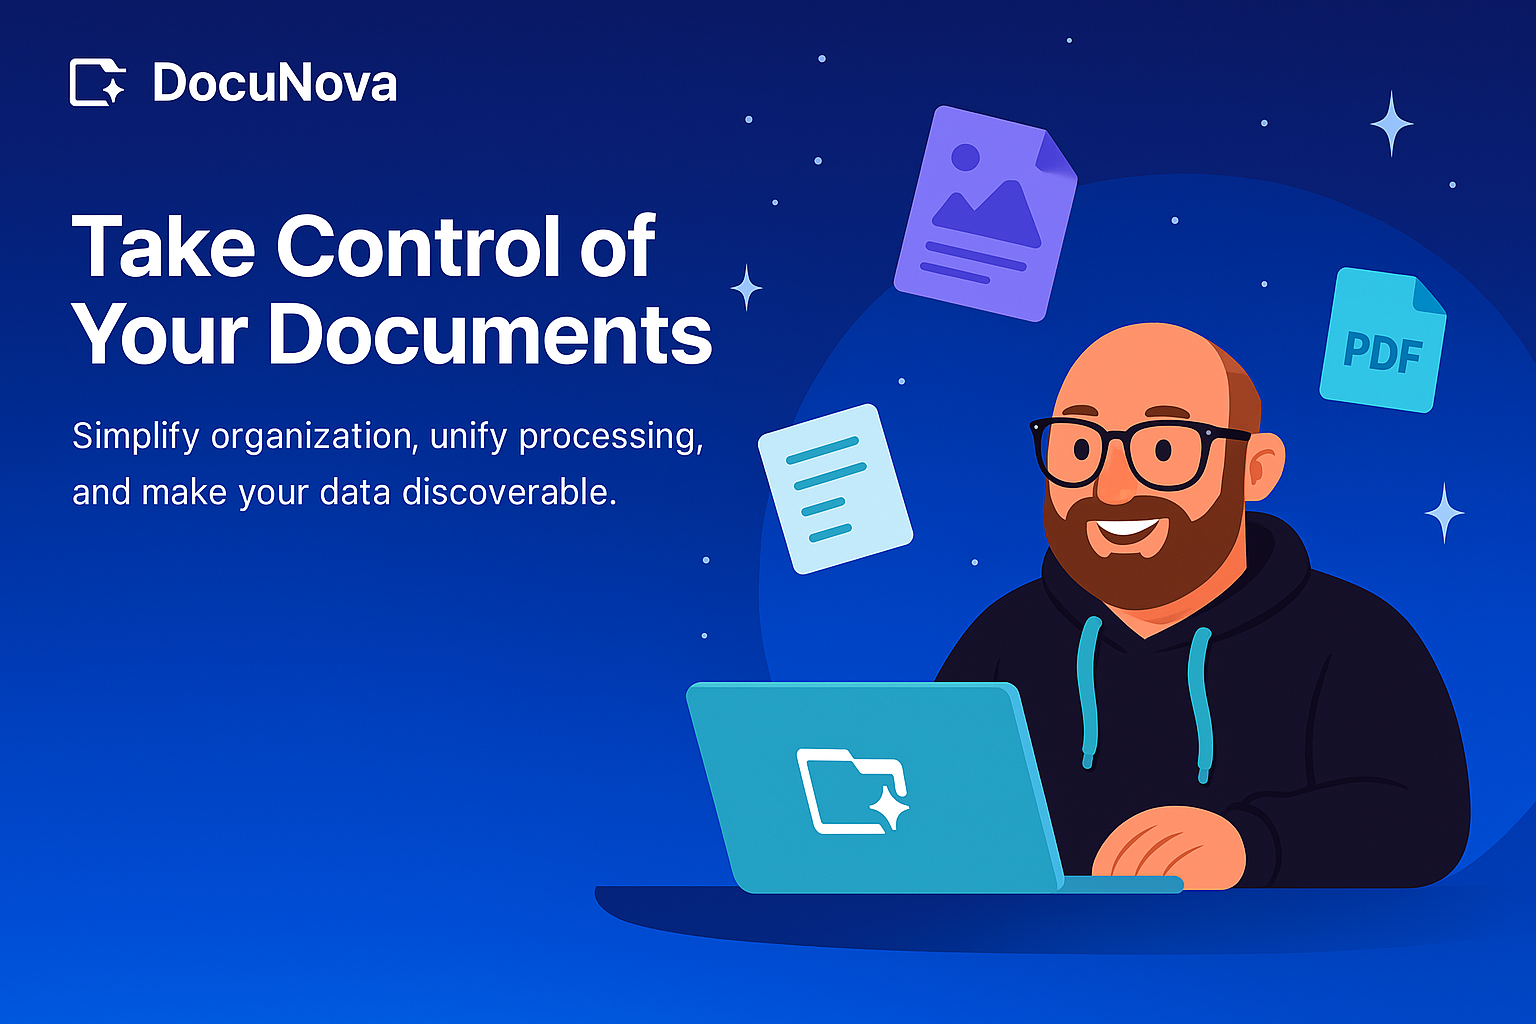
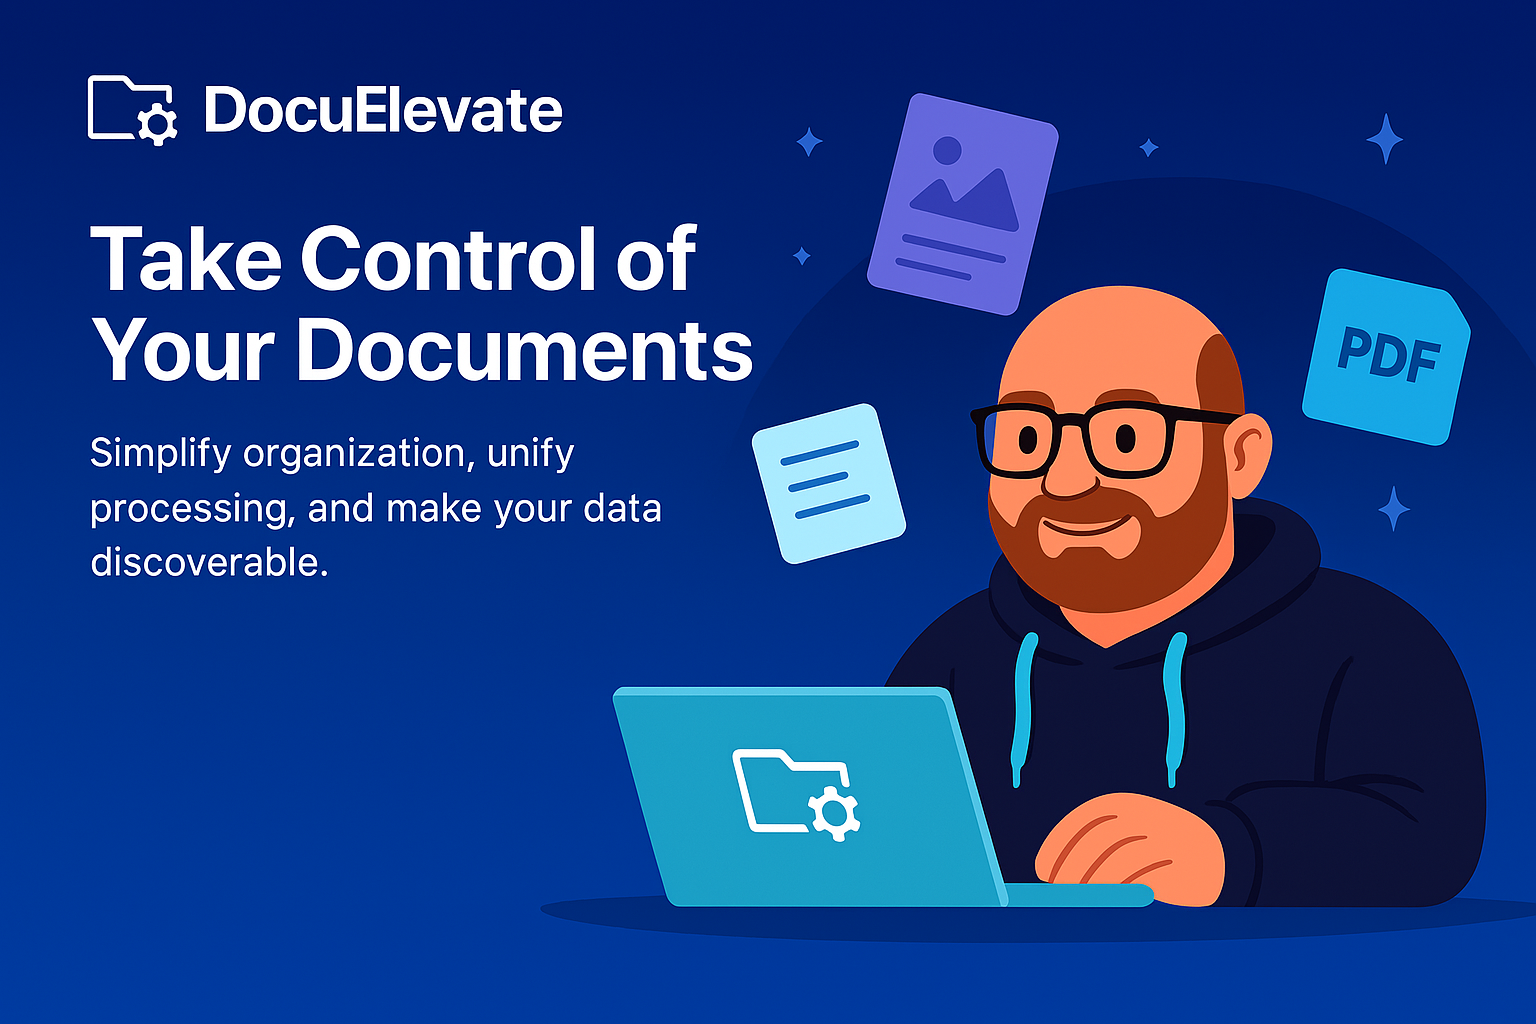
Rename project from DocuNova to DocuElevate and update related assets

diff --git a/index.html b/index.html
@@ -3,7 +3,7 @@
   <head>
     <meta charset="UTF-8" />
     <meta name="viewport" content="width=device-width, initial-scale=1.0" />
-    <title>DocuNova – Intelligent Document Processing</title>
+    <title>DocuElevate – Intelligent Document Processing</title>
     <script src="https://cdn.tailwindcss.com"></script>
     <script defer src="https://cdn.jsdelivr.net/npm/@alpinejs/intersect@3.14.9/dist/cdn.min.js"></script>
     <script defer src="https://cdn.jsdelivr.net/npm/alpinejs@3.14.9/dist/cdn.min.js"></script>
@@ -13,8 +13,8 @@
     <!-- Navigation -->
     <header class="flex items-center justify-between px-6 py-4 shadow">
       <div class="flex items-center space-x-2">
-        <img src="logo.svg" alt="DocuNova Logo" class="w-10 h-10" />
-        <span class="text-2xl font-bold text-blue-700">DocuNova</span>
+        <img src="logo.svg" alt="DocuElevate Logo" class="w-10 h-10" />
+        <span class="text-2xl font-bold text-blue-700">DocuElevate</span>
       </div>
       <nav class="space-x-6">
         <a href="#features" class="text-gray-600 hover:text-purple-700">Features</a>
@@ -22,7 +22,7 @@
         <a href="#story" class="text-gray-600 hover:text-purple-700">Story</a>
         <a href="#who" class="text-gray-600 hover:text-purple-700">Who Is It For?</a>
         <a href="#imprint" class="text-gray-600 hover:text-purple-700" @click.prevent="showImprint = true">Impressum</a>
-        <a href="https://github.com/christianlouis/DocuNova" target="_blank" class="bg-purple-700 text-white px-4 py-2 rounded hover:bg-purple-800">View on GitHub</a>
+        <a href="https://github.com/christianlouis/DocuElevate" target="_blank" class="bg-purple-700 text-white px-4 py-2 rounded hover:bg-purple-800">View on GitHub</a>
       </nav>
     </header>
 
@@ -77,7 +77,7 @@
               class="bg-gray-50 rounded-xl shadow p-6 text-center opacity-0 transform -translate-x-52 transition-all duration-1000 ease-out"
               x-intersect.once="$el.classList.add('opacity-100', 'translate-x-0')"
             >
-              <img src="story4.png" alt="Happy Christian using DocuNova" class="rounded-lg mb-6 w-full max-w-md mx-auto">
+              <img src="story4.png" alt="Happy Christian using DocuElevate" class="rounded-lg mb-6 w-full max-w-md mx-auto">
               <p class="text-base text-gray-700">
                 Then came the breakthrough. With intelligent document processing, files were auto-tagged, renamed, and neatly filed. Christian could finally find anything in seconds—and get back to what really matters.
               </p>
@@ -130,7 +130,7 @@
             <h3 class="text-2xl font-semibold text-blue-700 mb-4">Document Ingestion</h3>
             <p class="text-lg text-gray-700 max-w-3xl mx-auto mb-10">
               Your documents enter the system through a variety of inputs—from scanners to inboxes and drop folders.
-              DocuNova watches them all and picks up everything you throw at it.
+              DocuElevate watches them all and picks up everything you throw at it.
             </p>
             <div class="grid grid-cols-1 sm:grid-cols-2 md:grid-cols-4 gap-8">
               <div class="bg-gray-100 rounded-xl p-4 shadow">
@@ -156,7 +156,7 @@
           <div class="mb-24">
             <h3 class="text-2xl font-semibold text-purple-700 mb-4">Automated Document Processing</h3>
             <p class="text-lg text-gray-700 max-w-3xl mx-auto mb-10">
-              Inside the DocuNova engine, your documents are transformed into structured data: OCR, metadata extraction, clean naming, and full-text indexing happen automatically.
+              Inside the DocuElevate engine, your documents are transformed into structured data: OCR, metadata extraction, clean naming, and full-text indexing happen automatically.
             </p>
             <div class="bg-gray-100 rounded-xl p-6 shadow-lg">
               <img src="workflow/processing.png" alt="Document Processing" class="mx-auto max-w-md sm:max-w-lg md:max-w-xl h-auto rounded-lg mb-6">
@@ -231,11 +231,11 @@
           </div>
           <div class="p-6 bg-white rounded-xl shadow text-center">
             <h3 class="text-xl font-semibold text-purple-700 mb-2">Zero-Paper Enthusiasts</h3>
-            <p>Turn your household into a paperless fortress. DocuNova is your digital vault.</p>
+            <p>Turn your household into a paperless fortress. DocuElevate is your digital vault.</p>
           </div>
           <div class="p-6 bg-white rounded-xl shadow text-center">
             <h3 class="text-xl font-semibold text-purple-700 mb-2">Tech-Savvy People</h3>
-            <p>Docker, API, IMAP, AI — if you know the stack, DocuNova puts you in control.</p>
+            <p>Docker, API, IMAP, AI — if you know the stack, DocuElevate puts you in control.</p>
           </div>
         </div>
       </div>
